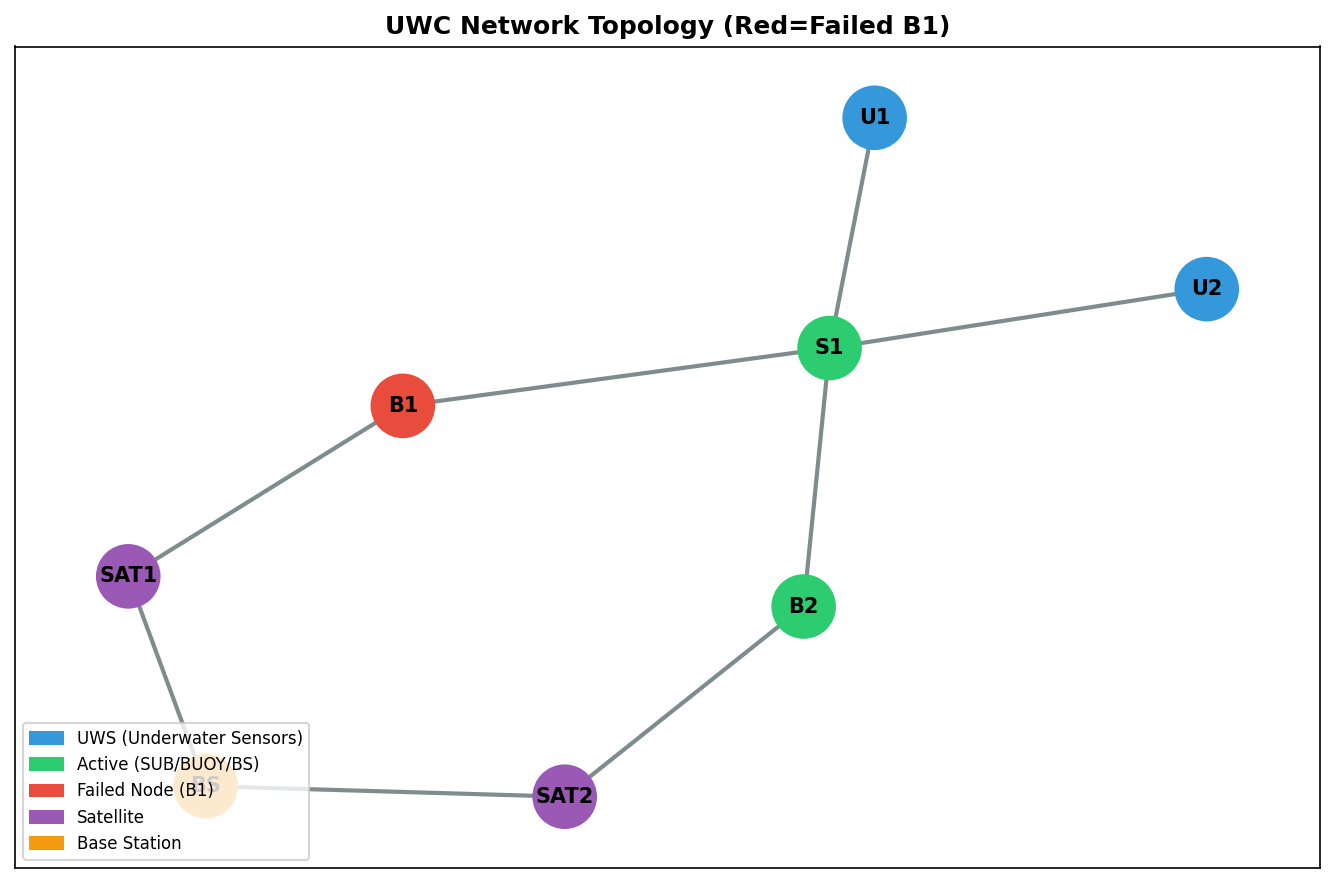
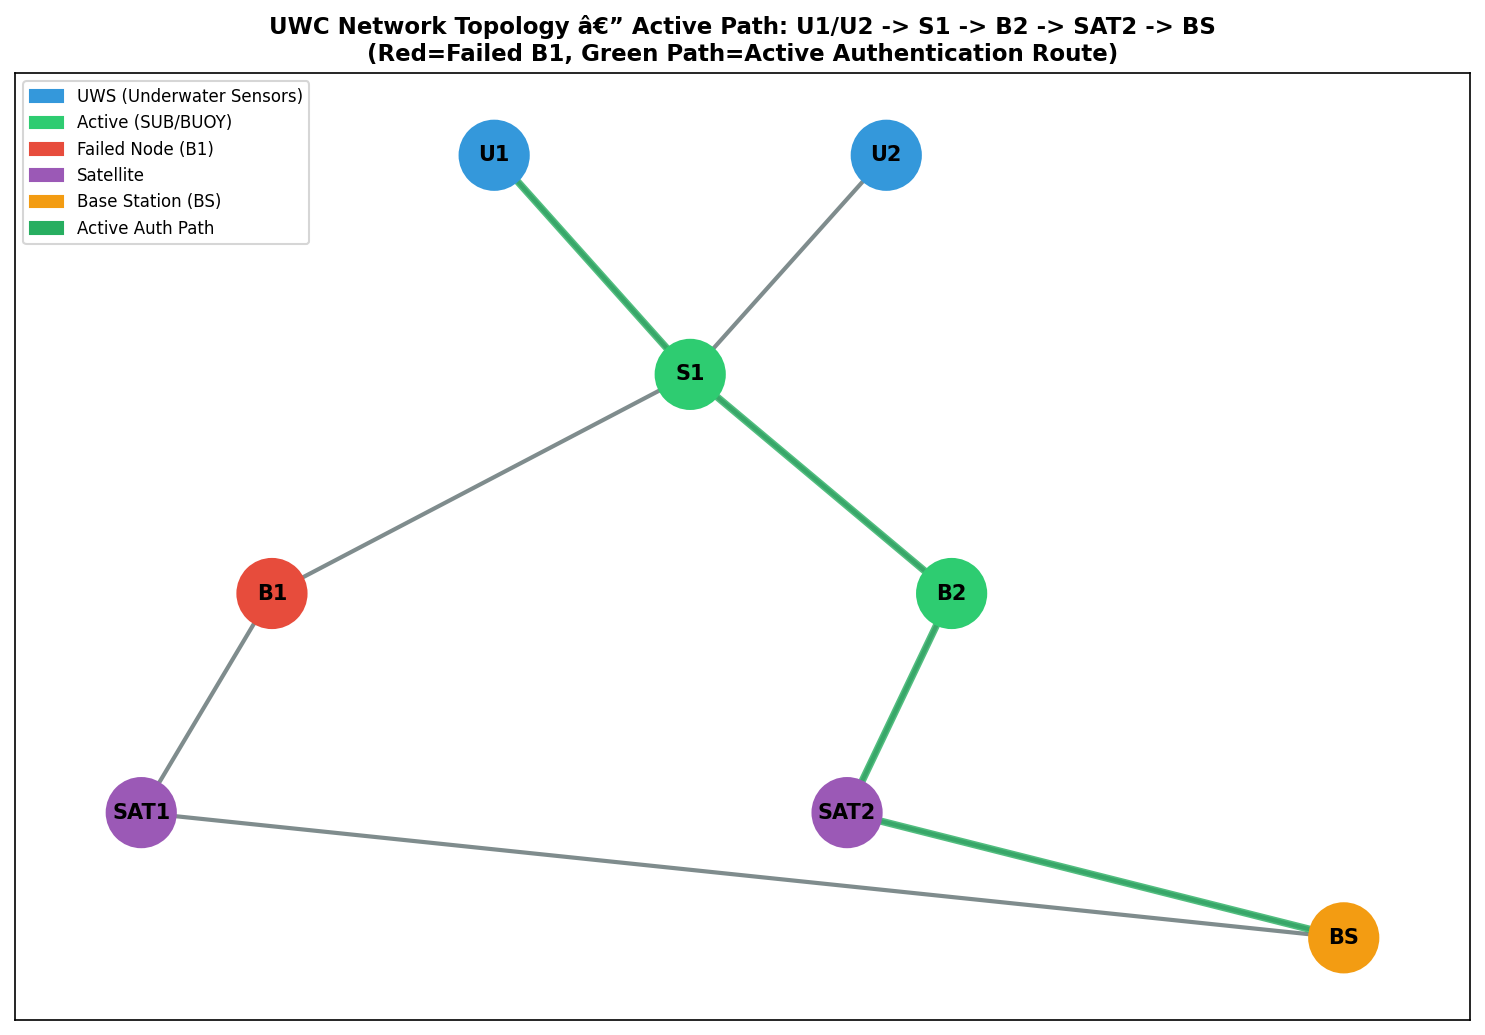
fix topology graph layout and legend

diff --git a/uwc_simulation.py b/uwc_simulation.py
@@ -306,19 +306,31 @@ def sv(fname):
 G2  = nx.Graph(); G2.add_edges_from(edges)
 cm2 = {"U1":"#3498db","U2":"#3498db","S1":"#2ecc71","B1":"#e74c3c","B2":"#2ecc71",
        "SAT1":"#9b59b6","SAT2":"#9b59b6","BS":"#f39c12"}
-pos = nx.spring_layout(G2, seed=42)
-fig, ax = plt.subplots(figsize=(9,6))
+pos = {
+    "U1":   (0.35, 1.00), "U2":  (0.65, 1.00),   # Layer 1: UWS sensors
+    "S1":   (0.50, 0.72),                          # Layer 2: Submarine
+    "B1":   (0.18, 0.44), "B2":  (0.70, 0.44),    # Layer 3: Buoys (B1 failed, B2 active)
+    "SAT1": (0.08, 0.16), "SAT2":(0.62, 0.16),    # Layer 4: Satellites
+    "BS":   (1.00, 0.00),                          # Layer 5: Base Station
+}
+fig, ax = plt.subplots(figsize=(10,7))
 nx.draw_networkx(G2, pos, ax=ax, node_color=[cm2.get(n,"#95a5a6") for n in G2.nodes()],
-                 node_size=900, font_size=10, font_weight="bold",
+                 node_size=1100, font_size=10, font_weight="bold",
                  edge_color="#7f8c8d", width=2, with_labels=True)
-ax.set_title("UWC Network Topology (Red=Failed B1)", fontsize=12, fontweight="bold")
+# Highlight active routing path U1->S1->B2->SAT2->BS
+active_edges = [("U1","S1"), ("S1","B2"), ("B2","SAT2"), ("SAT2","BS")]
+nx.draw_networkx_edges(G2, pos, edgelist=active_edges, ax=ax,
+                       edge_color="#27ae60", width=3.5, style="solid", alpha=0.8)
+ax.set_title("UWC Network Topology — Active Path: U1/U2 -> S1 -> B2 -> SAT2 -> BS\n(Red=Failed B1, Green Path=Active Authentication Route)",
+             fontsize=11, fontweight="bold")
 ax.legend(handles=[
     mpatches.Patch(color="#3498db", label="UWS (Underwater Sensors)"),
-    mpatches.Patch(color="#2ecc71", label="Active (SUB/BUOY/BS)"),
+    mpatches.Patch(color="#2ecc71", label="Active (SUB/BUOY)"),
     mpatches.Patch(color="#e74c3c", label="Failed Node (B1)"),
     mpatches.Patch(color="#9b59b6", label="Satellite"),
-    mpatches.Patch(color="#f39c12", label="Base Station"),
-], loc="lower left", fontsize=8)
+    mpatches.Patch(color="#f39c12", label="Base Station (BS)"),
+    mpatches.Patch(color="#27ae60", label="Active Auth Path"),
+], loc="upper left", fontsize=8)
 sv("output_topology.png")
 
 # Graph 2: Delay with Thorp model
